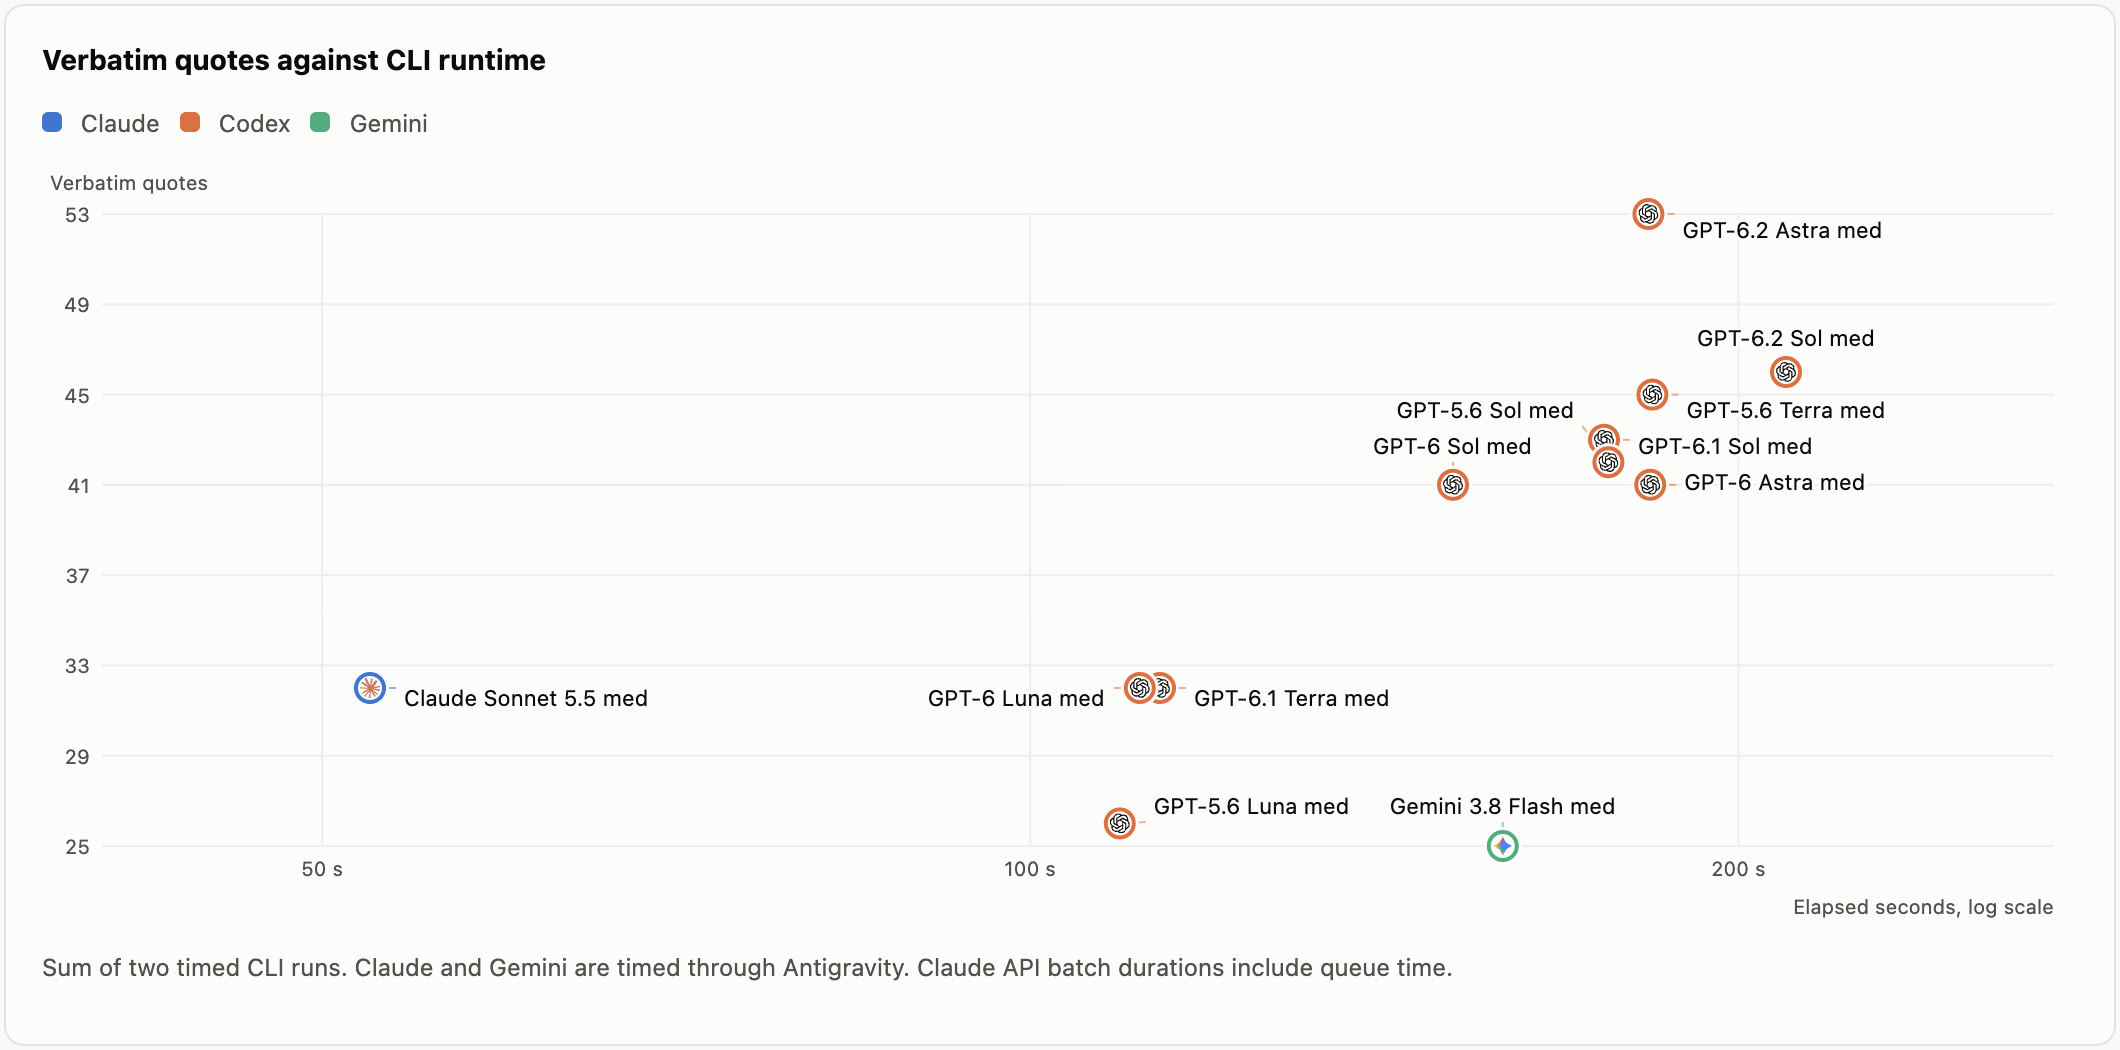
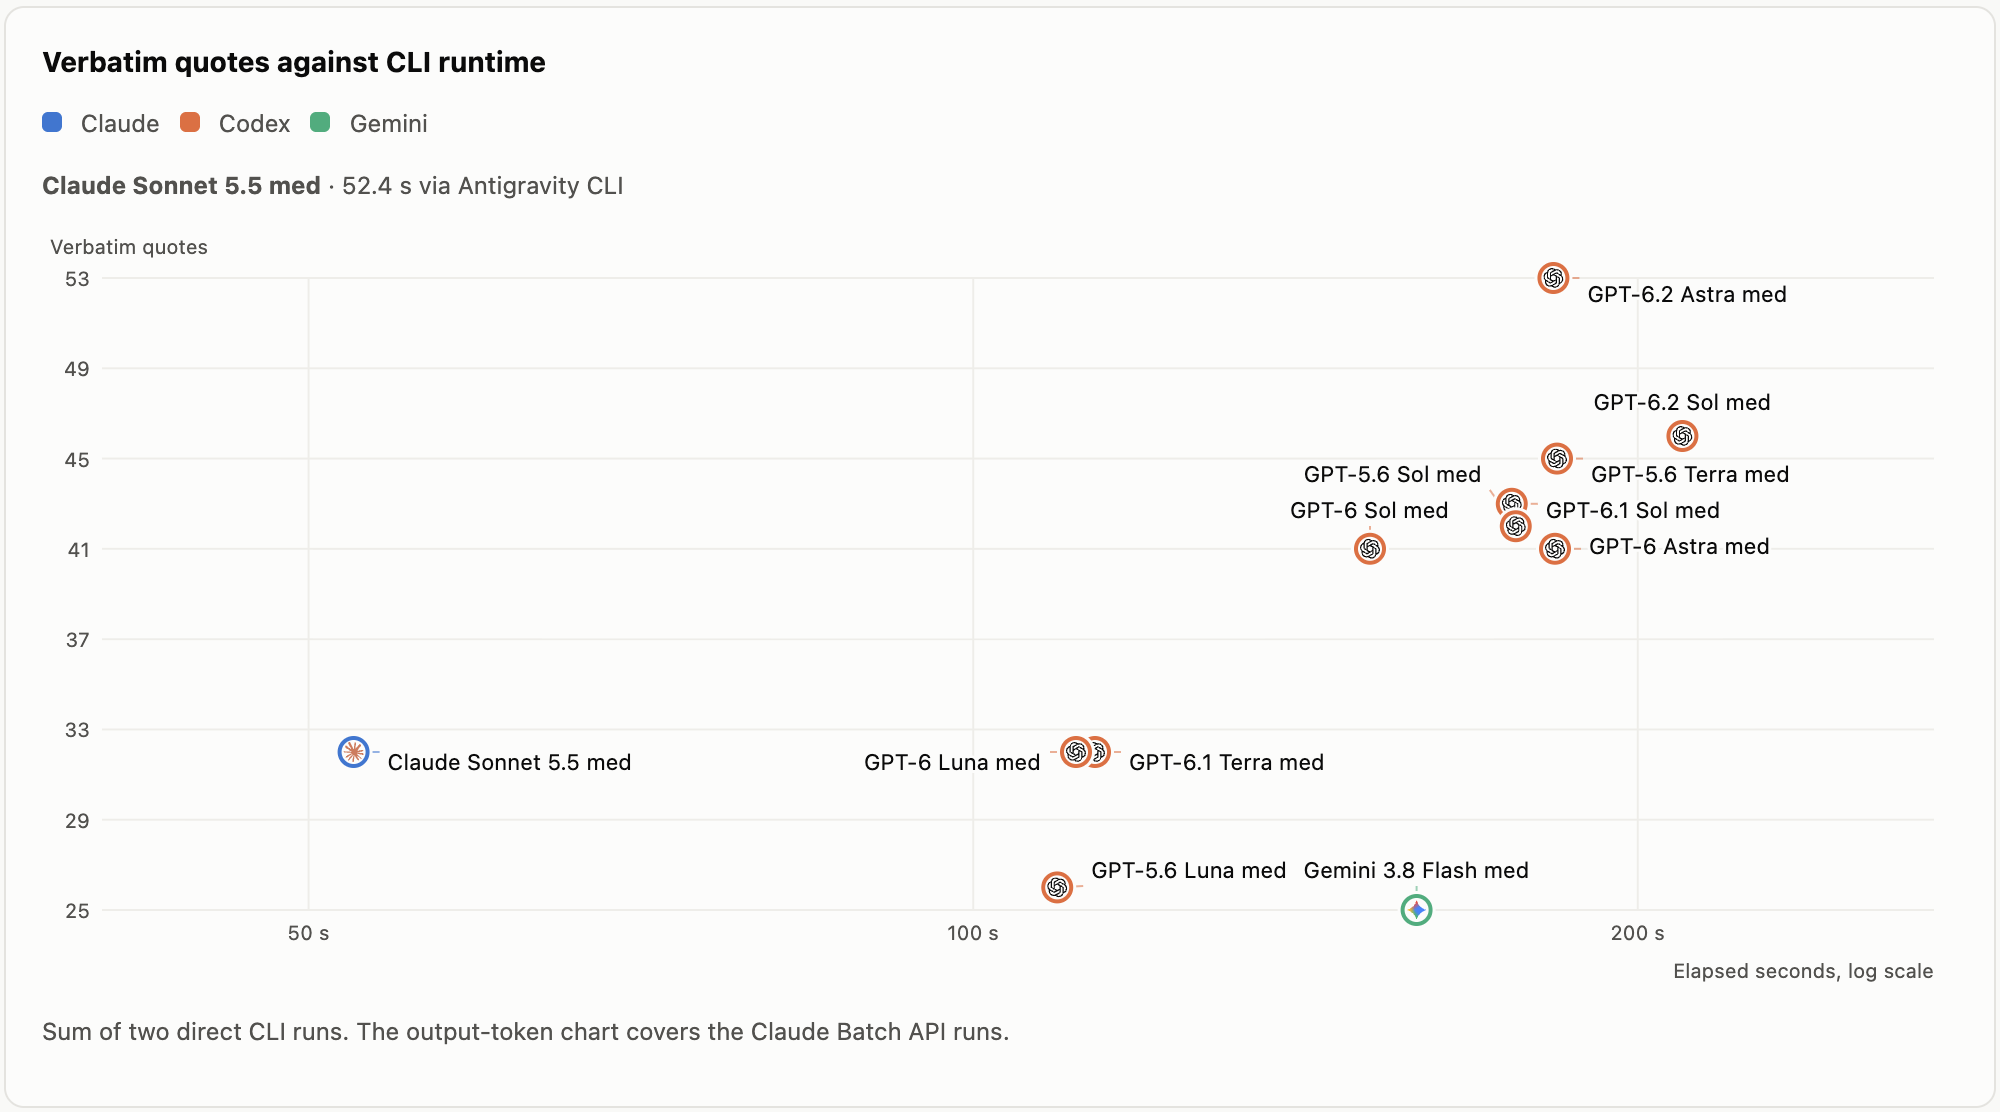
Add math lecture teacher solution benchmark

diff --git a/README.md b/README.md
@@ -6,12 +6,20 @@
 
 ![Score against speed for the magazine summary benchmark. The x-axis shows measured seconds per article.](score-against-speed.png)
 
-## Math lecture notes
+## Math lecture
 
-### Claude and Codex models
+### Verbatim quotes
 
 Both charts use the same two excerpts of the non-math portion of the lecture notes, across 47 subtitle blocks. The token chart covers 13 Claude and 10 Codex models. Verbatim quote counts measure one aspect of detail.
 
 ![Verbatim quotes against reported output tokens for Claude Batch API and Codex CLI models.](math-lecture-notes-models-quotes-against-output-tokens.png)
 
-![Verbatim quotes against elapsed runtime for timed Codex and Antigravity CLI runs.](math-lecture-notes-models-quotes-against-cli-runtime.png)
+Claude Sonnet 5.5 at medium effort produced 32 verbatim quotes in 52.4 seconds across two Antigravity CLI runs.
+
+![Verbatim quotes against elapsed CLI runtime for Claude, Codex, and Gemini.](math-lecture-notes-models-quotes-against-cli-runtime.png)
+
+### Teacher solution summaries
+
+Three models summarized the same worked solutions at medium effort. Two blinded reviewers scored four checkpoints per problem across combinatorics, geometry, and number theory.
+
+![Retained checkpoints out of 12 for teacher solution summaries. GPT-6.2 Astra and Claude Opus 5.5 each scored 11. Gemini 3.8 Flash scored 5.](math-lecture-teacher-solution-scores.png)
